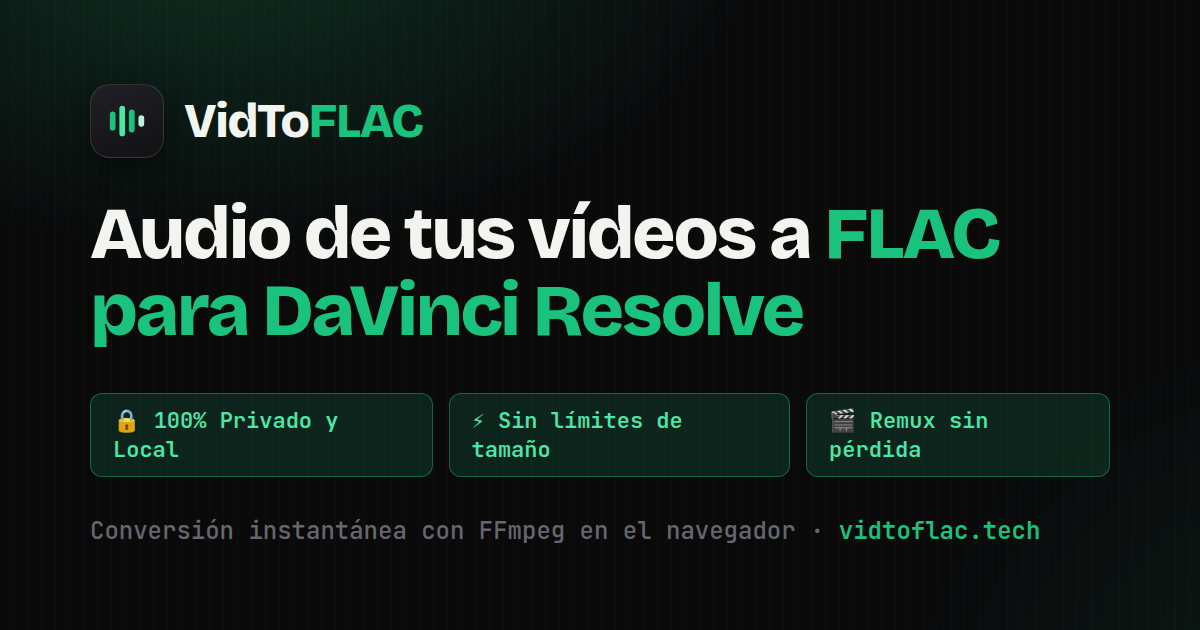
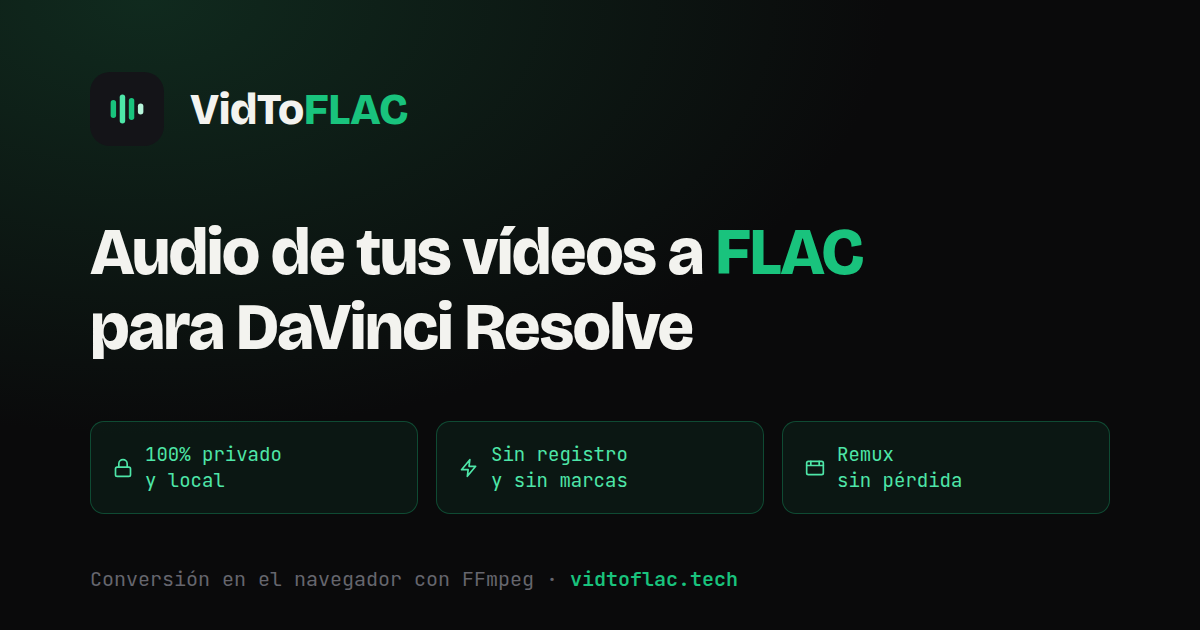
Tarjeta OG sin la promesa de tamaño y cuatro diagramas mal compuestos
- og-image.png: la tarjeta que se ve al compartir el sitio seguía
  diciendo "Sin límites de tamaño", la afirmación que se retiró del
  resto del sitio. Se regenera con "Sin registro y sin marcas", iconos
  SVG en lugar de emoji y el mismo lenguaje visual. 169 KB -> 93 KB.

Diagramas corregidos (ES + EN):
- H.265/HEVC: la etiqueta "CONVERSIÓN" invadía la caja de la derecha
  porque la flecha estaba centrada en 390 cuando el hueco entre cajas
  centra en 371. Se recolocan ambas cajas y la flecha, y las insignias
  pasan de y=118 al eje vertical del diagrama.
- OBS y exportar vídeo: la insignia de verificación estaba metida en
  la esquina redondeada de la caja y chocaba con el borde. Ahora va
  fuera y centrada, como en el resto de diagramas.
- Desincronización: el texto "+0.4 s de retraso" no estaba centrado
  en su caja (x=190 frente a un centro de 195).

Claude-Session: https://claude.ai/code/session_01Wx2WNB9RjDzEePRKJpyn6y

diff --git a/articulos/davinci-resolve-h265-hevc-no-importa/index.html b/articulos/davinci-resolve-h265-hevc-no-importa/index.html
@@ -429,20 +429,20 @@
     <div style="border-radius:16px;overflow:hidden;margin-bottom:2.5rem;border:1px solid rgba(255,255,255,.13);" aria-hidden="true">
       <svg viewBox="0 0 780 180" fill="none" xmlns="http://www.w3.org/2000/svg">
         <rect width="780" height="180" fill="#0f0f11"/>
-        <rect x="110" y="45" width="210" height="90" rx="13" fill="#1a0f0f" stroke="rgba(255,96,88,.35)" stroke-width="1.5"/>
-        <text x="215" y="75" text-anchor="middle" fill="#ff6058" font-family="'JetBrains Mono',monospace" font-size="9" font-weight="600" letter-spacing="1.5">NO COMPATIBLE</text>
-        <text x="215" y="107" text-anchor="middle" fill="#f3f3ef" font-family="'JetBrains Mono',monospace" font-size="22" font-weight="700">H.265/HEVC</text>
-        <circle cx="338" cy="118" r="11" fill="rgba(255,96,88,.12)" stroke="rgba(255,96,88,.4)" stroke-width="1.5"/>
-        <line x1="332" y1="112" x2="344" y2="124" stroke="#ff6058" stroke-width="2" stroke-linecap="round"/>
-        <line x1="344" y1="112" x2="332" y2="124" stroke="#ff6058" stroke-width="2" stroke-linecap="round"/>
-        <path d="M372 90 L408 90" stroke="#19c37d" stroke-width="1.5" stroke-linecap="round"/>
-        <polyline points="400,82 408,90 400,98" stroke="#19c37d" stroke-width="2" stroke-linecap="round" stroke-linejoin="round"/>
-        <text x="390" y="76" text-anchor="middle" fill="#19c37d" font-family="'JetBrains Mono',monospace" font-size="8" font-weight="600" letter-spacing="1">CONVERSIÓN</text>
-        <rect x="422" y="45" width="210" height="90" rx="13" fill="rgba(25,195,125,.09)" stroke="rgba(25,195,125,.38)" stroke-width="1.5"/>
-        <text x="527" y="75" text-anchor="middle" fill="#19c37d" font-family="'JetBrains Mono',monospace" font-size="9" font-weight="600" letter-spacing="1.5">COMPATIBLE</text>
-        <text x="527" y="107" text-anchor="middle" fill="#f3f3ef" font-family="'JetBrains Mono',monospace" font-size="22" font-weight="700">H.264/AVC</text>
-        <circle cx="649" cy="118" r="11" fill="rgba(25,195,125,.12)" stroke="rgba(25,195,125,.35)" stroke-width="1.5"/>
-        <polyline points="643,118 647,123 656,112" stroke="#19c37d" stroke-width="2" stroke-linecap="round" stroke-linejoin="round"/>
+        <rect x="80" y="45" width="200" height="90" rx="13" fill="#1a0f0f" stroke="rgba(255,96,88,.35)" stroke-width="1.5"/>
+        <text x="180" y="75" text-anchor="middle" fill="#ff6058" font-family="'JetBrains Mono',monospace" font-size="9" font-weight="600" letter-spacing="1.5">NO COMPATIBLE</text>
+        <text x="180" y="107" text-anchor="middle" fill="#f3f3ef" font-family="'JetBrains Mono',monospace" font-size="22" font-weight="700">H.265/HEVC</text>
+        <circle cx="300" cy="90" r="11" fill="rgba(255,96,88,.12)" stroke="rgba(255,96,88,.4)" stroke-width="1.5"/>
+        <line x1="294" y1="84" x2="306" y2="96" stroke="#ff6058" stroke-width="2" stroke-linecap="round"/>
+        <line x1="306" y1="84" x2="294" y2="96" stroke="#ff6058" stroke-width="2" stroke-linecap="round"/>
+        <path d="M340 90 L400 90" stroke="#19c37d" stroke-width="1.5" stroke-linecap="round"/>
+        <polyline points="392,82 400,90 392,98" stroke="#19c37d" stroke-width="2" stroke-linecap="round" stroke-linejoin="round"/>
+        <text x="370" y="76" text-anchor="middle" fill="#19c37d" font-family="'JetBrains Mono',monospace" font-size="8" font-weight="600" letter-spacing="1">CONVERSIÓN</text>
+        <rect x="460" y="45" width="200" height="90" rx="13" fill="rgba(25,195,125,.09)" stroke="rgba(25,195,125,.38)" stroke-width="1.5"/>
+        <text x="560" y="75" text-anchor="middle" fill="#19c37d" font-family="'JetBrains Mono',monospace" font-size="9" font-weight="600" letter-spacing="1.5">COMPATIBLE</text>
+        <text x="560" y="107" text-anchor="middle" fill="#f3f3ef" font-family="'JetBrains Mono',monospace" font-size="22" font-weight="700">H.264/AVC</text>
+        <circle cx="680" cy="90" r="11" fill="rgba(25,195,125,.12)" stroke="rgba(25,195,125,.35)" stroke-width="1.5"/>
+        <polyline points="674,90 678,95 687,84" stroke="#19c37d" stroke-width="2" stroke-linecap="round" stroke-linejoin="round"/>
       </svg>
     </div>
 

diff --git a/en/articles/davinci-resolve-h265-hevc-not-importing/index.html b/en/articles/davinci-resolve-h265-hevc-not-importing/index.html
@@ -429,20 +429,20 @@
     <div style="border-radius:16px;overflow:hidden;margin-bottom:2.5rem;border:1px solid rgba(255,255,255,.13);" aria-hidden="true">
       <svg viewBox="0 0 780 180" fill="none" xmlns="http://www.w3.org/2000/svg">
         <rect width="780" height="180" fill="#0f0f11"/>
-        <rect x="110" y="45" width="210" height="90" rx="13" fill="#1a0f0f" stroke="rgba(255,96,88,.35)" stroke-width="1.5"/>
-        <text x="215" y="75" text-anchor="middle" fill="#ff6058" font-family="'JetBrains Mono',monospace" font-size="9" font-weight="600" letter-spacing="1.5">NO COMPATIBLE</text>
-        <text x="215" y="107" text-anchor="middle" fill="#f3f3ef" font-family="'JetBrains Mono',monospace" font-size="22" font-weight="700">H.265/HEVC</text>
-        <circle cx="338" cy="118" r="11" fill="rgba(255,96,88,.12)" stroke="rgba(255,96,88,.4)" stroke-width="1.5"/>
-        <line x1="332" y1="112" x2="344" y2="124" stroke="#ff6058" stroke-width="2" stroke-linecap="round"/>
-        <line x1="344" y1="112" x2="332" y2="124" stroke="#ff6058" stroke-width="2" stroke-linecap="round"/>
-        <path d="M372 90 L408 90" stroke="#19c37d" stroke-width="1.5" stroke-linecap="round"/>
-        <polyline points="400,82 408,90 400,98" stroke="#19c37d" stroke-width="2" stroke-linecap="round" stroke-linejoin="round"/>
-        <text x="390" y="76" text-anchor="middle" fill="#19c37d" font-family="'JetBrains Mono',monospace" font-size="8" font-weight="600" letter-spacing="1">CONVERSIÓN</text>
-        <rect x="422" y="45" width="210" height="90" rx="13" fill="rgba(25,195,125,.09)" stroke="rgba(25,195,125,.38)" stroke-width="1.5"/>
-        <text x="527" y="75" text-anchor="middle" fill="#19c37d" font-family="'JetBrains Mono',monospace" font-size="9" font-weight="600" letter-spacing="1.5">COMPATIBLE</text>
-        <text x="527" y="107" text-anchor="middle" fill="#f3f3ef" font-family="'JetBrains Mono',monospace" font-size="22" font-weight="700">H.264/AVC</text>
-        <circle cx="649" cy="118" r="11" fill="rgba(25,195,125,.12)" stroke="rgba(25,195,125,.35)" stroke-width="1.5"/>
-        <polyline points="643,118 647,123 656,112" stroke="#19c37d" stroke-width="2" stroke-linecap="round" stroke-linejoin="round"/>
+        <rect x="80" y="45" width="200" height="90" rx="13" fill="#1a0f0f" stroke="rgba(255,96,88,.35)" stroke-width="1.5"/>
+        <text x="180" y="75" text-anchor="middle" fill="#ff6058" font-family="'JetBrains Mono',monospace" font-size="9" font-weight="600" letter-spacing="1.5">NO COMPATIBLE</text>
+        <text x="180" y="107" text-anchor="middle" fill="#f3f3ef" font-family="'JetBrains Mono',monospace" font-size="22" font-weight="700">H.265/HEVC</text>
+        <circle cx="300" cy="90" r="11" fill="rgba(255,96,88,.12)" stroke="rgba(255,96,88,.4)" stroke-width="1.5"/>
+        <line x1="294" y1="84" x2="306" y2="96" stroke="#ff6058" stroke-width="2" stroke-linecap="round"/>
+        <line x1="306" y1="84" x2="294" y2="96" stroke="#ff6058" stroke-width="2" stroke-linecap="round"/>
+        <path d="M340 90 L400 90" stroke="#19c37d" stroke-width="1.5" stroke-linecap="round"/>
+        <polyline points="392,82 400,90 392,98" stroke="#19c37d" stroke-width="2" stroke-linecap="round" stroke-linejoin="round"/>
+        <text x="370" y="76" text-anchor="middle" fill="#19c37d" font-family="'JetBrains Mono',monospace" font-size="8" font-weight="600" letter-spacing="1">CONVERSIÓN</text>
+        <rect x="460" y="45" width="200" height="90" rx="13" fill="rgba(25,195,125,.09)" stroke="rgba(25,195,125,.38)" stroke-width="1.5"/>
+        <text x="560" y="75" text-anchor="middle" fill="#19c37d" font-family="'JetBrains Mono',monospace" font-size="9" font-weight="600" letter-spacing="1.5">COMPATIBLE</text>
+        <text x="560" y="107" text-anchor="middle" fill="#f3f3ef" font-family="'JetBrains Mono',monospace" font-size="22" font-weight="700">H.264/AVC</text>
+        <circle cx="680" cy="90" r="11" fill="rgba(25,195,125,.12)" stroke="rgba(25,195,125,.35)" stroke-width="1.5"/>
+        <polyline points="674,90 678,95 687,84" stroke="#19c37d" stroke-width="2" stroke-linecap="round" stroke-linejoin="round"/>
       </svg>
     </div>
 

diff --git a/articulos/davinci-resolve-no-importa-audio-mp4-obs/index.html b/articulos/davinci-resolve-no-importa-audio-mp4-obs/index.html
@@ -454,8 +454,8 @@
         <rect x="480" y="45" width="200" height="90" rx="13" fill="rgba(25,195,125,.06)" stroke="rgba(25,195,125,.3)" stroke-width="1.5"/>
         <text x="580" y="80" text-anchor="middle" fill="#a7a7ad" font-family="'JetBrains Mono',monospace" font-size="10" font-weight="600" letter-spacing="1">DaVinci</text>
         <text x="580" y="101" text-anchor="middle" fill="#f3f3ef" font-family="'JetBrains Mono',monospace" font-size="12" font-weight="700" letter-spacing="0.5">Resolve</text>
-        <circle cx="648" cy="113" r="12" fill="rgba(25,195,125,.12)" stroke="rgba(25,195,125,.35)" stroke-width="1.5"/>
-        <polyline points="641,113 645,119 655,107" stroke="#19c37d" stroke-width="2" stroke-linecap="round" stroke-linejoin="round"/>
+        <circle cx="706" cy="90" r="12" fill="rgba(25,195,125,.12)" stroke="rgba(25,195,125,.35)" stroke-width="1.5"/>
+        <polyline points="699,90 703,96 713,84" stroke="#19c37d" stroke-width="2" stroke-linecap="round" stroke-linejoin="round"/>
       </svg>
     </div>
 

diff --git a/en/articles/davinci-resolve-not-importing-obs-mp4-audio/index.html b/en/articles/davinci-resolve-not-importing-obs-mp4-audio/index.html
@@ -454,8 +454,8 @@
         <rect x="480" y="45" width="200" height="90" rx="13" fill="rgba(25,195,125,.06)" stroke="rgba(25,195,125,.3)" stroke-width="1.5"/>
         <text x="580" y="80" text-anchor="middle" fill="#a7a7ad" font-family="'JetBrains Mono',monospace" font-size="10" font-weight="600" letter-spacing="1">DaVinci</text>
         <text x="580" y="101" text-anchor="middle" fill="#f3f3ef" font-family="'JetBrains Mono',monospace" font-size="12" font-weight="700" letter-spacing="0.5">Resolve</text>
-        <circle cx="648" cy="113" r="12" fill="rgba(25,195,125,.12)" stroke="rgba(25,195,125,.35)" stroke-width="1.5"/>
-        <polyline points="641,113 645,119 655,107" stroke="#19c37d" stroke-width="2" stroke-linecap="round" stroke-linejoin="round"/>
+        <circle cx="706" cy="90" r="12" fill="rgba(25,195,125,.12)" stroke="rgba(25,195,125,.35)" stroke-width="1.5"/>
+        <polyline points="699,90 703,96 713,84" stroke="#19c37d" stroke-width="2" stroke-linecap="round" stroke-linejoin="round"/>
       </svg>
     </div>
 

diff --git a/articulos/exportar-video-davinci-resolve-sin-perder-calidad-audio/index.html b/articulos/exportar-video-davinci-resolve-sin-perder-calidad-audio/index.html
@@ -440,8 +440,8 @@
         <rect x="538" y="55" width="160" height="70" rx="10" fill="rgba(25,195,125,.09)" stroke="rgba(25,195,125,.38)" stroke-width="1.5"/>
         <text x="618" y="80" text-anchor="middle" fill="#a7a7ad" font-family="'JetBrains Mono',monospace" font-size="9" font-weight="600">video_final.mp4</text>
         <text x="618" y="100" text-anchor="middle" fill="#19c37d" font-family="'JetBrains Mono',monospace" font-size="9" font-weight="600" letter-spacing="0.5">audio OK ✓</text>
-        <circle cx="686" cy="112" r="10" fill="rgba(25,195,125,.12)" stroke="rgba(25,195,125,.35)" stroke-width="1.5"/>
-        <polyline points="680,112 684,117 692,106" stroke="#19c37d" stroke-width="2" stroke-linecap="round" stroke-linejoin="round"/>
+        <circle cx="722" cy="90" r="10" fill="rgba(25,195,125,.12)" stroke="rgba(25,195,125,.35)" stroke-width="1.5"/>
+        <polyline points="716,90 720,95 728,84" stroke="#19c37d" stroke-width="2" stroke-linecap="round" stroke-linejoin="round"/>
       </svg>
     </div>
 

diff --git a/en/articles/export-video-davinci-resolve-without-losing-audio-quality/index.html b/en/articles/export-video-davinci-resolve-without-losing-audio-quality/index.html
@@ -440,8 +440,8 @@
         <rect x="538" y="55" width="160" height="70" rx="10" fill="rgba(25,195,125,.09)" stroke="rgba(25,195,125,.38)" stroke-width="1.5"/>
         <text x="618" y="80" text-anchor="middle" fill="#a7a7ad" font-family="'JetBrains Mono',monospace" font-size="9" font-weight="600">video_final.mp4</text>
         <text x="618" y="100" text-anchor="middle" fill="#19c37d" font-family="'JetBrains Mono',monospace" font-size="9" font-weight="600" letter-spacing="0.5">audio OK ✓</text>
-        <circle cx="686" cy="112" r="10" fill="rgba(25,195,125,.12)" stroke="rgba(25,195,125,.35)" stroke-width="1.5"/>
-        <polyline points="680,112 684,117 692,106" stroke="#19c37d" stroke-width="2" stroke-linecap="round" stroke-linejoin="round"/>
+        <circle cx="722" cy="90" r="10" fill="rgba(25,195,125,.12)" stroke="rgba(25,195,125,.35)" stroke-width="1.5"/>
+        <polyline points="716,90 720,95 728,84" stroke="#19c37d" stroke-width="2" stroke-linecap="round" stroke-linejoin="round"/>
       </svg>
     </div>
 

diff --git a/articulos/davinci-resolve-video-desincronizado-audio/index.html b/articulos/davinci-resolve-video-desincronizado-audio/index.html
@@ -430,7 +430,7 @@
         <text x="120" y="87" fill="#ff6058" font-family="'JetBrains Mono',monospace" font-size="7">AUDIO</text>
         <line x1="80" y1="73" x2="300" y2="73" stroke="rgba(255,255,255,.06)" stroke-width="1"/>
         <line x1="120" y1="95" x2="300" y2="95" stroke="rgba(255,96,88,.15)" stroke-width="1"/>
-        <text x="190" y="128" text-anchor="middle" fill="#ff6058" font-family="'JetBrains Mono',monospace" font-size="9">+0.4 s de retraso</text>
+        <text x="195" y="128" text-anchor="middle" fill="#ff6058" font-family="'JetBrains Mono',monospace" font-size="9">+0.4 s de retraso</text>
         <path d="M348 90 L394 90" stroke="#19c37d" stroke-width="1.5" stroke-linecap="round"/>
         <polyline points="386,82 394,90 386,98" stroke="#19c37d" stroke-width="2" stroke-linecap="round" stroke-linejoin="round"/>
         <text x="371" y="76" text-anchor="middle" fill="#19c37d" font-family="'JetBrains Mono',monospace" font-size="8" font-weight="600" letter-spacing="1">FLAC</text>

diff --git a/en/articles/davinci-resolve-audio-out-of-sync/index.html b/en/articles/davinci-resolve-audio-out-of-sync/index.html
@@ -430,7 +430,7 @@
         <text x="120" y="87" fill="#ff6058" font-family="'JetBrains Mono',monospace" font-size="7">AUDIO</text>
         <line x1="80" y1="73" x2="300" y2="73" stroke="rgba(255,255,255,.06)" stroke-width="1"/>
         <line x1="120" y1="95" x2="300" y2="95" stroke="rgba(255,96,88,.15)" stroke-width="1"/>
-        <text x="190" y="128" text-anchor="middle" fill="#ff6058" font-family="'JetBrains Mono',monospace" font-size="9">+0.4 s de retraso</text>
+        <text x="195" y="128" text-anchor="middle" fill="#ff6058" font-family="'JetBrains Mono',monospace" font-size="9">+0.4 s de retraso</text>
         <path d="M348 90 L394 90" stroke="#19c37d" stroke-width="1.5" stroke-linecap="round"/>
         <polyline points="386,82 394,90 386,98" stroke="#19c37d" stroke-width="2" stroke-linecap="round" stroke-linejoin="round"/>
         <text x="371" y="76" text-anchor="middle" fill="#19c37d" font-family="'JetBrains Mono',monospace" font-size="8" font-weight="600" letter-spacing="1">FLAC</text>
